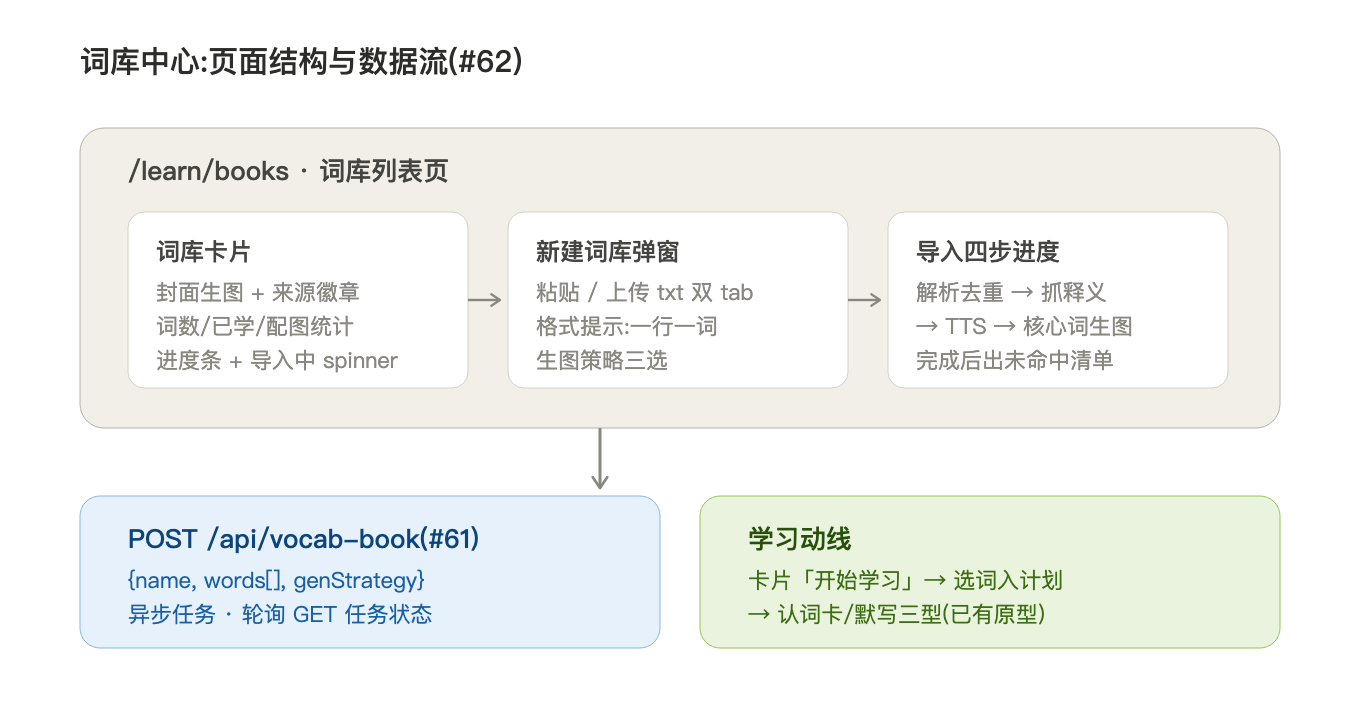
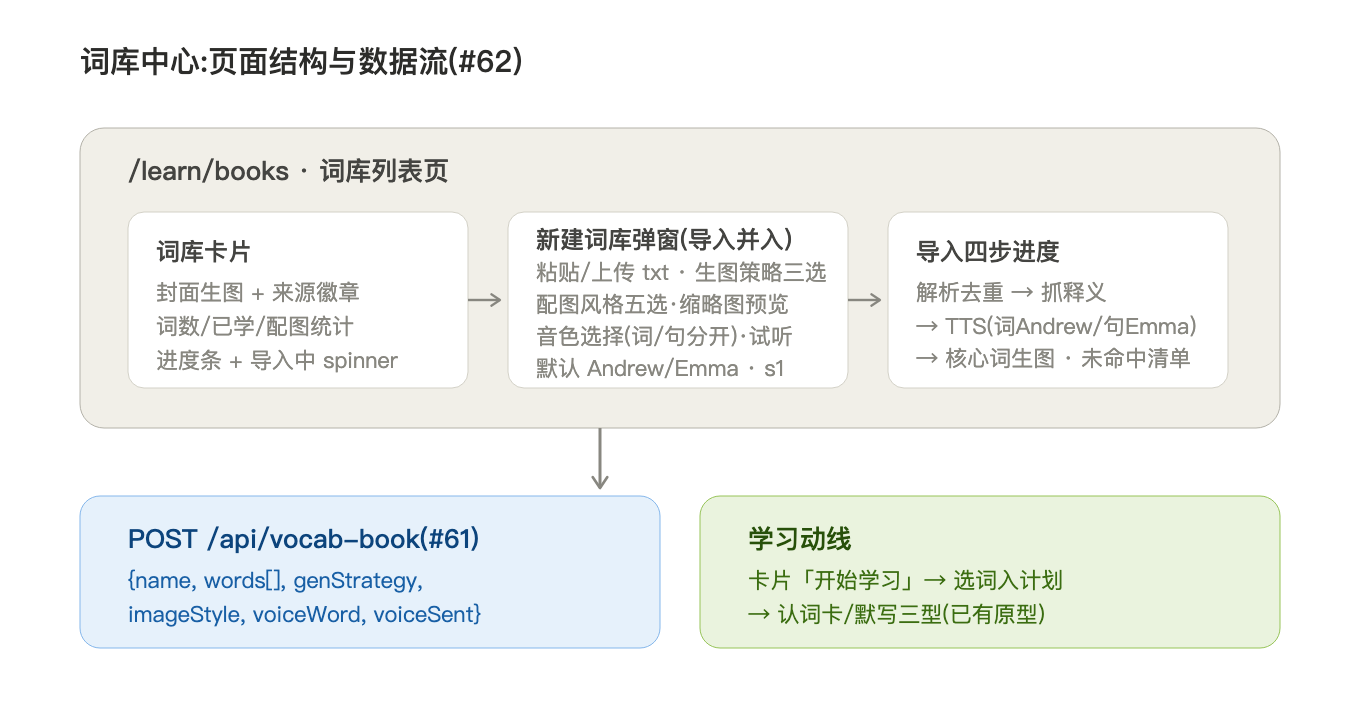
feat: 新建词库弹窗音色试听+配图风格预览,导入入口并入新建;词书音频重合成 Andrew/Emma
- 音色定稿(试音拍板):单词=en-US-AndrewMultilingualNeural,例句=en-US-EmmaMultilingualNeural(-8% 慢速)
- pipeline 拆 VOICE_WORD/VOICE_SENT,CLI --voice-word/--voice-sent 可覆盖
- 新增 scripts/resynth-audio.mjs:整书重合成(不写库,文件名不变,contentJson 免回写),200 文件已全部重生成
- 弹窗:删「导入词库」按钮并入「＋ 新建 / 导入词库」;配图风格五选缩略图预览(image-lab 实拍样图,默认 s1);单词/例句音色分开选带试听(6 音色,默认 Andrew/Emma)
- 进度步骤 3/4 文案动态显示所选音色与风格;?open=1 自动开弹窗(演示/截图)
- 设计文档 v1.1:API 增 imageStyle/voiceWord/voiceSent;page-map SVG/PNG 同步弹窗字段

Changed region(s): [[0.3706, 0.3056, 0.6176, 0.5194], [0.6794, 0.4278, 0.8956, 0.5194], [0.0926, 0.825, 0.3706, 0.8861]]

diff --git a/prototype/vocab/book-list/demo.js b/prototype/vocab/book-list/demo.js
@@ -113,10 +113,70 @@ function btnFlash(card, text) {
   setTimeout(() => { card.querySelector(".book-name").textContent = old; }, 900);
 }
 
+/* ---------- 配图风格池（对齐 src/lib/vocab-image-styles.ts）---------- */
+const IMAGE_STYLES = [
+  { id: "s1",  label: "暖色扁平插画", desc: "pastel 绘本 · 词义可读性最好",  img: "img/styles/s1-v1.png",  def: true },
+  { id: "s6",  label: "彩铅手绘",     desc: "铅笔颗粒 · 绘本内页感",          img: "img/styles/s6-v2.png" },
+  { id: "s8",  label: "暖调胶片摄影", desc: "Kodak 色调 · 胶片颗粒",          img: "img/styles/s8-v2.png" },
+  { id: "s10", label: "古风动漫",     desc: "国风动画 · 水墨渐变",            img: "img/styles/s10-v2.png" },
+  { id: "s11", label: "巨构史诗",     desc: "巨构对比 · 史诗构图",            img: "img/styles/s11-v2.png" },
+];
+let selectedStyle = "s1";
+
+function renderStyleGrid() {
+  const grid = document.getElementById("styleGrid");
+  grid.innerHTML = IMAGE_STYLES.map(
+    (s) => `
+    <div class="style-card ${s.id === selectedStyle ? "selected" : ""}" data-style="${s.id}">
+      <img src="${s.img}" alt="${s.label} 预览（abandon 样图）">
+      <div class="style-meta">
+        <div class="style-name">${s.label}${s.def ? ' <span class="def-tag">默认</span>' : ""}</div>
+        <div class="style-desc">${s.desc}</div>
+      </div>
+    </div>`,
+  ).join("");
+}
+document.getElementById("styleGrid").addEventListener("click", (e) => {
+  const card = e.target.closest(".style-card");
+  if (!card) return;
+  selectedStyle = card.dataset.style;
+  renderStyleGrid();
+});
+
+/* ---------- 发音音色池（2026-09-03 试音定稿，对齐 pipeline 默认）---------- */
+const VOICES = [
+  { id: "en-US-AndrewMultilingualNeural", name: "Andrew", tag: "男·美音·节奏最佳", wordDef: true },
+  { id: "en-US-BrianMultilingualNeural",  name: "Brian",  tag: "男·美音" },
+  { id: "en-US-AvaMultilingualNeural",    name: "Ava",    tag: "女·美音" },
+  { id: "en-US-EmmaMultilingualNeural",   name: "Emma",   tag: "女·美音·韵律最佳", sentDef: true },
+  { id: "en-GB-SoniaNeural",              name: "Sonia",  tag: "女·英音" },
+  { id: "en-GB-LibbyNeural",              name: "Libby",  tag: "女·英音" },
+];
+const VOICE_BY_ID = Object.fromEntries(VOICES.map((v) => [v.id, v]));
+
+function fillVoiceSelect(id, defVoiceId) {
+  const sel = document.getElementById(id);
+  sel.innerHTML = VOICES.map(
+    (v) =>
+      `<option value="${v.id}" ${v.id === defVoiceId ? "selected" : ""}>${v.name}（${v.tag}${v.id === defVoiceId ? " · 默认" : ""}）</option>`,
+  ).join("");
+}
+fillVoiceSelect("voiceWord", "en-US-AndrewMultilingualNeural");
+fillVoiceSelect("voiceSent", "en-US-EmmaMultilingualNeural");
+
+/* 试听：一个 Audio 实例复用，切换时打断上一个 */
+let auditionAudio = null;
+function playVoice(voiceId) {
+  if (auditionAudio) { auditionAudio.pause(); auditionAudio = null; }
+  auditionAudio = new Audio(`audio/${VOICE_BY_ID[voiceId].name}.mp3`);
+  auditionAudio.play();
+}
+document.getElementById("playVoiceWord").onclick = () => playVoice(document.getElementById("voiceWord").value);
+document.getElementById("playVoiceSent").onclick = () => playVoice(document.getElementById("voiceSent").value);
+
 /* ---------- 新建 / 导入弹窗 ---------- */
 const $mask = document.getElementById("modalMask");
 document.getElementById("newBtn").onclick = openModal;
-document.getElementById("importBtn").onclick = openModal;
 document.getElementById("cancelBtn").onclick = closeModal;
 $mask.addEventListener("click", (e) => { if (e.target === $mask) closeModal(); });
 document.getElementById("doneBtn").onclick = closeModal;
@@ -125,6 +185,7 @@ function openModal() {
   $mask.classList.add("open");
   document.getElementById("stepForm").style.display = "";
   document.getElementById("stepProgress").style.display = "none";
+  renderStyleGrid();
 }
 
 function closeModal() { $mask.classList.remove("open"); }
@@ -170,8 +231,14 @@ document.getElementById("startImportBtn").onclick = () => {
   const name = document.getElementById("bookName").value.trim() || "未命名词库";
   const core = document.getElementById("genCore").checked;
   const coreCount = core ? Math.round(words.length * 0.72) : (document.getElementById("genAll").checked ? words.length : 0);
+  const wv = VOICE_BY_ID[document.getElementById("voiceWord").value];
+  const sv = VOICE_BY_ID[document.getElementById("voiceSent").value];
+  const style = IMAGE_STYLES.find((s) => s.id === selectedStyle);
   document.getElementById("progBookName").textContent = name;
   document.getElementById("progGenCount").textContent = coreCount ? `核心词 ${coreCount} 张` : "跳过";
+  document.getElementById("step3Text").textContent = `合成发音音频（单词 ${wv.name} / 例句 ${sv.name}，-8%）`;
+  document.getElementById("step4Text").textContent = `核心词批量生图（${style.label}）`;
+  console.log("[demo] 导入参数:", { name, style: selectedStyle, voiceWord: wv.id, voiceSent: sv.id });
 
   document.getElementById("stepForm").style.display = "none";
   document.getElementById("stepProgress").style.display = "";
@@ -206,6 +273,7 @@ function simulateSteps(n, coreCount, name) {
         hasAudio: true,
         imgCount: coreCount,
         status: "ready",
+        style: selectedStyle,
       });
       render();
       setTimeout(closeModal, 700);
@@ -214,3 +282,6 @@ function simulateSteps(n, coreCount, name) {
 }
 
 render();
+
+/* URL 带 ?open=1 自动打开弹窗（截图/演示用） */
+if (new URLSearchParams(location.search).get("open") === "1") openModal();

diff --git a/prototype/vocab/book-list/index.html b/prototype/vocab/book-list/index.html
@@ -14,21 +14,20 @@
     <p class="sub">词库卡片列表 · 内置/自定义词库统一管理 · 点击卡片进入学习 · 卡片 hover 出操作</p>
   </div>
   <div class="toolbar">
-    <button class="btn btn-ghost" id="importBtn">导入词库</button>
-    <button class="btn btn-primary" id="newBtn">＋ 新建词库</button>
+    <button class="btn btn-primary" id="newBtn">＋ 新建 / 导入词库</button>
   </div>
 </header>
 
 <!-- 词库卡片网格 -->
 <main class="book-grid" id="bookGrid"><!-- JS 注入卡片 --></main>
 
-<!-- 新建/导入词库弹窗 -->
+<!-- 新建词库弹窗（导入并入新建：txt 词表即新建入口） -->
 <div class="modal-mask" id="modalMask">
   <div class="modal">
     <!-- 第一步：基本信息 + 导入内容 -->
     <section id="stepForm">
       <h2>新建词库</h2>
-      <p class="modal-sub">txt 一行一词，导入后自动补全释义 / 例句 / 音频（百词斩数据源）</p>
+      <p class="modal-sub">粘贴 / 上传 txt 词表（一行一词）即完成导入，释义 / 例句 / 音频 / 配图自动补全</p>
 
       <div class="upload-tabs">
         <button class="upload-tab active" data-tab="paste">粘贴文本</button>
@@ -83,6 +82,30 @@
         </div>
       </div>
 
+      <div class="field">
+        <label>配图风格 <span class="label-tip">点缩略图选择 · 同一句词的实拍样图对比</span></label>
+        <div class="style-grid" id="styleGrid"><!-- JS 注入风格卡片 --></div>
+      </div>
+
+      <div class="field">
+        <label>发音音色 <span class="label-tip">edge-tts 生成 · 点 🔶 试听样音</span></label>
+        <div class="voice-row">
+          <div class="voice-cell">
+            <div class="v-label">单词读音</div>
+            <select id="voiceWord"></select>
+            <button class="voice-play" id="playVoiceWord" title="试听单词读音">▶</button>
+          </div>
+          <div class="voice-cell">
+            <div class="v-label">例句读音</div>
+            <select id="voiceSent"></select>
+            <button class="voice-play" id="playVoiceSent" title="试听例句读音">▶</button>
+          </div>
+        </div>
+        <div class="format-hint" style="margin-top:8px">
+          默认：单词 <b>Andrew</b>（男·美音，节奏自然） / 例句 <b>Emma</b>（女·美音，停顿韵律最佳），例句统一放慢 8%。试音结论：Multilingual 系（Andrew/Emma/Ava/Brian）韵律优于经典英音 Neural 系。
+        </div>
+      </div>
+
       <div class="modal-actions">
         <button class="btn btn-ghost" id="cancelBtn">取消</button>
         <button class="btn btn-primary" id="startImportBtn">开始导入</button>
@@ -98,8 +121,8 @@
         <div class="steps">
           <div class="step-item" id="step1"><span class="dot">1</span>解析词表 · 去重合并</div>
           <div class="step-item" id="step2"><span class="dot">2</span>抓取释义 / 例句（百词斩数据源）</div>
-          <div class="step-item" id="step3"><span class="dot">3</span>合成发音音频（edge-tts 英音）</div>
-          <div class="step-item" id="step4"><span class="dot">4</span>核心词批量生图（<span id="progGenCount">—</span>）</div>
+          <div class="step-item" id="step3"><span class="dot">3</span><span id="step3Text">合成发音音频</span></div>
+          <div class="step-item" id="step4"><span class="dot">4</span><span id="step4Text">核心词批量生图</span>（<span id="progGenCount">—</span>）</div>
         </div>
       </div>
       <div class="modal-actions">

diff --git a/prototype/vocab/book-list/styles.css b/prototype/vocab/book-list/styles.css
@@ -182,7 +182,7 @@ body {
 .modal {
   background: var(--card);
   border-radius: 16px;
-  width: min(520px, calc(100vw - 40px));
+  width: min(640px, calc(100vw - 40px));
   max-height: 86vh;
   overflow-y: auto;
   padding: 22px 24px;
@@ -297,3 +297,60 @@ body {
   border-top: 1px dashed var(--border);
   padding-top: 14px;
 }
+
+/* ---------- 配图风格选择（带预览缩略图） ---------- */
+.label-tip { font-weight: 400; font-size: 11.5px; color: var(--muted-foreground); margin-left: 6px; }
+.style-grid {
+  display: grid;
+  grid-template-columns: repeat(5, 1fr);
+  gap: 10px;
+}
+.style-card {
+  border: 2px solid var(--border);
+  border-radius: 10px;
+  overflow: hidden;
+  cursor: pointer;
+  background: var(--card);
+  transition: border-color 0.15s, box-shadow 0.15s;
+}
+.style-card:hover { border-color: var(--ring); }
+.style-card.selected {
+  border-color: var(--primary);
+  box-shadow: 0 0 0 3px oklch(0.83 0.13 82 / 0.35);
+}
+.style-card img { display: block; width: 100%; aspect-ratio: 1; object-fit: cover; }
+.style-meta { padding: 7px 8px 8px; }
+.style-name { font-size: 12px; font-weight: 600; display: flex; align-items: center; gap: 5px; }
+.style-desc { font-size: 10.5px; color: var(--muted-foreground); margin-top: 2px; line-height: 1.4; }
+.def-tag {
+  font-size: 10px; font-weight: 500; padding: 0 5px;
+  border-radius: 99px; background: var(--secondary); color: var(--secondary-foreground);
+}
+
+/* ---------- 发音音色选择（带试听） ---------- */
+.voice-row { display: flex; gap: 14px; }
+.voice-cell { flex: 1; display: flex; align-items: center; gap: 8px; }
+.voice-cell .v-label { font-size: 12px; color: var(--muted-foreground); flex-shrink: 0; width: 52px; }
+.voice-cell select {
+  flex: 1;
+  padding: 7px 9px;
+  border: 1px solid var(--border);
+  border-radius: 8px;
+  font-size: 12.5px;
+  background: var(--card);
+  color: var(--foreground);
+  outline: none;
+  min-width: 0;
+}
+.voice-cell select:focus { border-color: var(--ring); }
+.voice-play {
+  width: 28px; height: 28px; flex-shrink: 0;
+  border-radius: 50%;
+  border: 1px solid var(--border);
+  background: var(--secondary);
+  color: var(--secondary-foreground);
+  font-size: 11px;
+  cursor: pointer;
+  display: inline-flex; align-items: center; justify-content: center;
+}
+.voice-play:hover { background: var(--ring); color: #fff; border-color: var(--ring); }

diff --git a/docs/背单词词库导入与词库中心设计.md b/docs/背单词词库导入与词库中心设计.md
@@ -31,7 +31,7 @@
 | ① 用户输入 | txt 粘贴/上传 | `word` | 一行一词，`#` 注释跳过，小写化、屈折形式归并去重 |
 | ② 百词斩 join | `lyc8503/baicizhan-word-meaning-API`（jsDelivr CDN，10927 词） | `phoneticUk`、`contentJson.translation/definition/examples/exchange` | 展示型字段主力；未命中词跳过，重跑可补 |
 | ③ ECDICT 补全 | 本地 CSV（codeload 源码包 + awk 抽行）+ wordroot.txt | `phoneticUs`、`contentJson.bncRank/frqRank/collins/tags/exchange/root` | 元数据型字段；**核心词判据的前置依赖**；translation 列可作百词斩未命中时的释义兜底 |
-| ④a edge-tts | 本地 Python CLI（免 key） | `contentJson.audio.word`、`examples[].audio` | 单词 mp3 + 例句 mp3，落 `public/audio/`，库内只存路径 |
+| ④a edge-tts | 本地 Python CLI（免 key） | `contentJson.audio.word`、`examples[].audio` | 单词 mp3 + 例句 mp3，落 `public/audio/`，库内只存路径。**音色（2026-09-03 试音定稿）：单词 = `en-US-AndrewMultilingualNeural`（男·美音，节奏最佳），例句 = `en-US-EmmaMultilingualNeural`（女·美音，韵律最佳）+ `--rate=-8%`**；Multilingual 系停顿/连读/语调显著优于经典英音 Neural 系；导入弹窗可改选（Andrew/Brian/Ava/Emma/Sonia/Libby 六选，带试听样音） |
 | ④b MiniMax 生图 | `POST /v1/image_generation`（复用 config.json 的 llm.apiKey） | `contentJson.image` | 只跑核心词；png 落 `public/images/words/`；失败不阻塞导入 |
 
 落库语义：
@@ -45,9 +45,11 @@
 ### 3.1 接口
 
 ```
-POST /api/vocab-book        创建导入任务 { name, words[], genStrategy: "core"|"all"|"none" }
+POST /api/vocab-book        创建导入任务 { name, words[], genStrategy: "core"|"all"|"none", imageStyle?: "s1"|"s6"|"s8"|"s10"|"s11", voiceWord?: <音色ShortName>, voiceSent?: <音色ShortName> }
 GET  /api/vocab-book/task   轮询任务进度（页面导入弹窗用）
 ```
+
+imageStyle 默认 `s1`（对齐 `src/lib/vocab-image-styles.ts` 风格池）；voiceWord/voiceSent 默认 Andrew/Emma，未传时用默认，不需要新建词书级字段——音色随导入请求走，后续整书重合成用 `scripts/resynth-audio.mjs`（支持 `--voice-word`/`--voice-sent` 覆盖，文件名不变、contentJson 无需回写）。
 
 ### 3.2 异步任务流水线
 
@@ -60,8 +62,8 @@ GET  /api/vocab-book/task   轮询任务进度（页面导入弹窗用）
 - 解析去重：小写化、按行去重、屈折形式归并（`abandoned`→记录原形 `abandon`，例句挖空判分时屈折/原形双答案，见交互文档 §2.3）
 - 百词斩 join：逐词 GET，超时 8s + 重试 3 次 + 404 跳过；文件名特殊字符替换 `_`
 - ECDICT 补全：**不走 Node 流式解析大 CSV**（已踩坑），维持 awk 预抽取小文件路径；界面化后可预建「word→ecdict 行」本地索引
-- 音频：并发 4，已存在且 >1KB 直接跳过；edge-tts SSL reset 退避重试
-- 生图：`genStrategy` 三选一（见 §4）；单词级重生成走已有 `/api/vocab-image`
+- 音频：并发 4，已存在且 >1KB 直接跳过；edge-tts SSL reset 退避重试；单词/例句双音色拆分（默认 Andrew/Emma，例句 -8% 慢速），换音色整书重合成走 `scripts/resynth-audio.mjs`
+- 生图：`genStrategy` 三选一（见 §4）；`imageStyle` 风格五选带缩略图预览；单词级重生成走已有 `/api/vocab-image`
 - 任务汇报：完成时返回命中率、音频数、生图数、**未命中 N 词清单**（缺料词标记，后续可人工补释义/例句）
 
 ### 3.3 未命中词的处理
@@ -90,7 +92,7 @@ GET  /api/vocab-book/task   轮询任务进度（页面导入弹窗用）
 ![词库中心页面结构与数据流](assets/vocab-import/book-list-page-map.png)
 
 - 卡片：封面生图 + 来源徽章（内置/自定义/导入中）+ 词数/已学/配图统计 + 进度条；导入中的书显示 spinner 态
-- 新建弹窗：粘贴 / 上传 txt 双 tab；格式提示「一行一词、# 注释、屈折自动归并」；生图策略三选
+- 新建弹窗（**导入已并入新建**，不再有独立「导入词库」入口，粘贴/上传 txt 即导入）：粘贴 / 上传 txt 双 tab；格式提示「一行一词、# 注释、屈折自动归并」；生图策略三选；**配图风格五选（缩略图预览，image-lab 实拍样图，默认 s1）**；**发音音色选择（单词/例句分开，带试听样音按钮，默认 Andrew/Emma）**
 - 导入进度：四步 stepper，对应 §3.2 流水线，完成后展示未命中清单
 - 数据对齐：`word_books.book_id / name / description / source` 已备齐卡片所需字段
 
@@ -106,3 +108,4 @@ GET  /api/vocab-book/task   轮询任务进度（页面导入弹窗用）
 | 版本 | 日期 | 变更 |
 |---|---|---|
 | v1.0 | 2026-09-03 | 初稿：四层数据源、导入 API 四步流水线、核心词阈值、词库中心页面结构定稿；配 4 张 SVG |
+| v1.1 | 2026-09-03 | 音色定稿（单词 Andrew / 例句 Emma，例句 -8%）；导入并入新建词库；弹窗新增配图风格预览五选 + 音色试听选择；API 增 imageStyle/voiceWord/voiceSent 参数；新增 scripts/resynth-audio.mjs 整书重合成脚本 |
